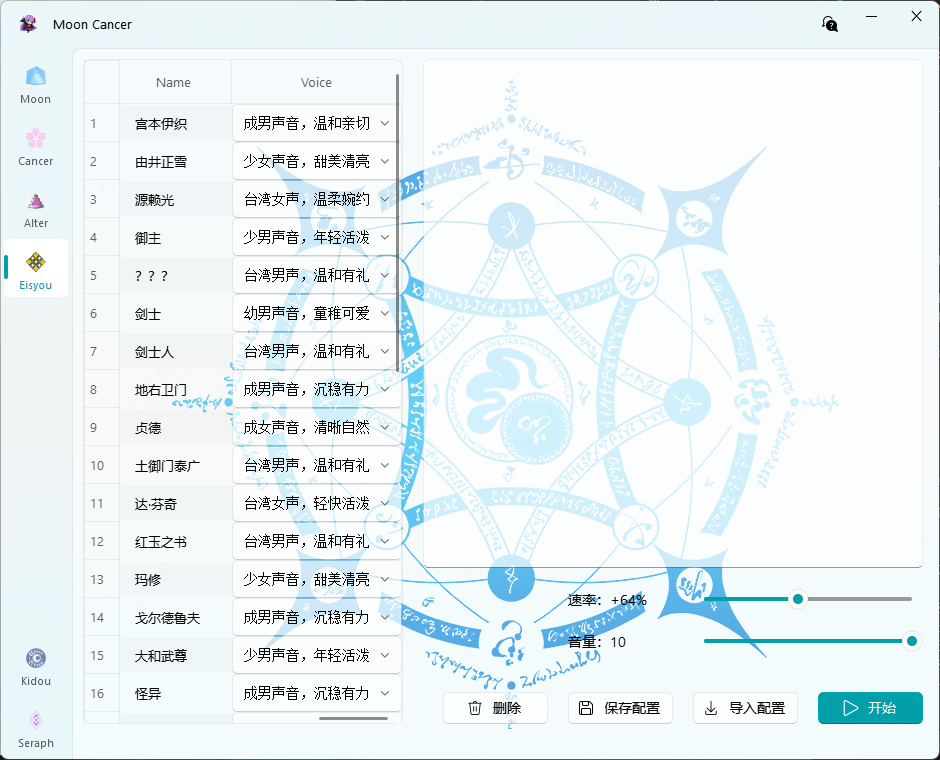
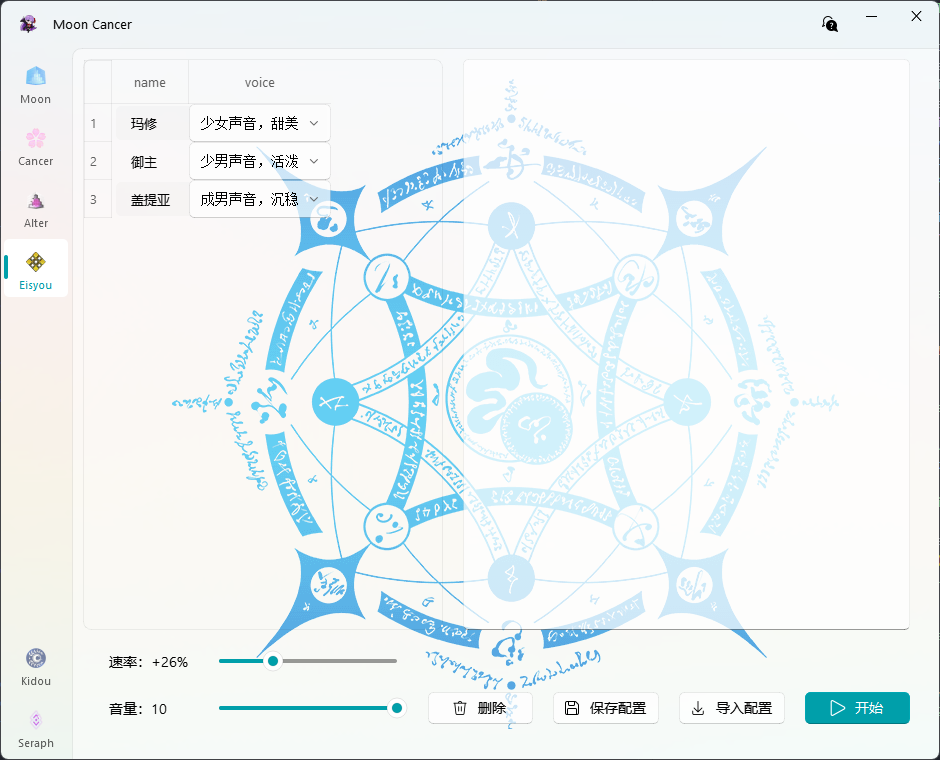
mc v2.1.4

diff --git a/src/content/posts/MoonCancer0.md b/src/content/posts/MoonCancer0.md
@@ -14,7 +14,7 @@ draft: false
 - `日常任务`：打开模拟器，打开游戏，抽每日友情池，清理白纸化副本结束，也可以在主页开始
 - `开始战斗`：无烦恼刷各种副本，复杂的机制关可能不能正常通关，建议手动修改根据机制来完成战斗
 - `过主线`：自动过主线，可以选择朗读剧情，或者跳过剧情，部分情况可以要手动调整重新启动任务
-- `清理free本`：自动清理free本(We Are Free!
+- `清理free本`：自动清理free本(We Are Free!)
 - `Cancer`：局内数值修改器，只能在战斗中使用，用来手动修改数值
 - `Alter`：提供更灵活的方式修改局内数值，主要用来打圣杯战线
 - `Eisyou`：随机分配角色朗读剧情，可以挂着当相声听
@@ -62,11 +62,10 @@ draft: false
 - **清理剩余体力**开启后，所有战斗都会在战斗次数耗尽后，战斗到体力不足
 - **苹果**按需选择即可
 - **助战礼装**按需设置即可，活动礼装默认选择第一个，把助战筛选设置好就行了
-- **跳过剧情**，开启会在过剧情任务时自动跳过剧情，否则会自动朗读剧情，朗读相关选项可以到eisyou界面设置
+- **活动点限制**，设置活动点限制，超过就停止，不多刷浪费，不限制时设为0，没有活动点的情况不触发
 - **抽每日友情池**，开启会在日常任务打白纸化之前先抽取每日免费友情池
 - **白纸化任务**，选择每日刷的本，按需选取
 - **连接等待时间**，如果自动启动模拟器时，模拟器启动时间过长导致没连上，可以增加等待时间
-- **活动点限制**，设置活动点限制，超过就停止，不多刷浪费，不限制时设为0，没有活动点的情况不触发
 ![settings2](../../assets/images/mooncaner/settings2.png)
 - 剩下的设置没啥好讲的了，自己看着选
 

diff --git a/src/content/posts/MoonCancer1.md b/src/content/posts/MoonCancer1.md
@@ -18,7 +18,7 @@ draft: false
 自动刷各种本，主要是能连续战斗的，或是强化本或者free本那样回到主界面右上角也有本可以点的情况，在Seraph(设置)里设置好战斗次数，礼装类型，是否要清理剩余体力，就可以点击开始了。可以在进入战斗前的选择助战，队伍设置和进入战斗后开始，也可以在主界面选本界面开始，但要保证要刷的本在第一个位置。<br>
 
 `过主线`<br>
-自动过主线和类主线，自动完成期间的战斗，**不要改变地图缩放，保持进入地图后的默认缩放，有缩放过的重新进图**，保障屏幕里表示主线任务的`下一个`标识存在即可点击开始，部分情况会卡住，需要手动修正，默认自动跳过主线，关闭跳过剧情时会自动朗读剧情，相关配置可以到Eisyou界面修改，具体说明请看[Eisyou界面说明](../mooncancer4)<br>
+自动过主线和类主线，自动完成期间的战斗，**不要改变地图缩放，保持进入地图后的默认缩放，有缩放过的重新进图**，保障屏幕里表示主线任务的`下一个`标识存在即可点击开始，部分情况会卡住，需要手动修正，选取消跳过剧情时会自动朗读剧情，相关配置可以到Eisyou界面修改，具体说明请看[Eisyou界面说明](../mooncancer4)<br>
 可能需要手动干涉部分：<br>
 - **第四特异点** 雾遮挡标志<br>
 - **第六特异点** 风沙遮挡标志<br>

diff --git a/src/content/posts/MoonCancer3.md b/src/content/posts/MoonCancer3.md
@@ -10,12 +10,12 @@ draft: false
 *这个界面提供了一个更灵活的方式修改局内数值，主要用来打圣杯战线，Cancer修改失败时，可以在这里修改，不过地址任然会记录到Cnacer界面的表格里，记得清理*<br>
 
 `添加`新行用来记录修改参数<br>
+`获取从者信息`从屏幕识别从者名称等级生命并自动填入表格，如果识别的数字没用问题可以直接选中修改<br>
+`获取敌人信息`从屏幕识别敌人名称等级生命并自动填入表格，如果识别的数字没用问题可以直接选中修改<br>
 `删除`选中行，可以删除多行<br>
-`修改`选中的行，同样可以修改多行<br>
+`修改`选中的行，可以选择多行修改<br>
 
 名称不能为空，等级不能为空，当前攻击力和生命值选一个填就行，填进入战斗后当前显示的值，改己方填攻击，改敌方填生命值（敌人看不到攻击力），后面的攻击力、生命值、宝具发动np都是要修改的值，空就代表不修改<br>
 例如：`托勒密， 80， 11677， ， 5000000， 10000000， 0`<br>
 意思是修改托勒密，根据等级和攻击力修改，攻击力修改为5000000，生命值修改为10000000，0np发动宝具
 
-
-*这个功能由于基本用不到确少维护，所以好像存在问题，后面我在修复，而且准备添加直接从画面获取数据，就不用手动输入了*

diff --git a/src/content/posts/MoonCancer.md b/src/content/posts/MoonCancer.md
@@ -52,3 +52,9 @@ draft: false
 3.优化过剧情和自动free本<br>
 4.在过主线开始前提示是否跳过剧情<br>
 5.优化多处逻辑，增加稳定性
+
+## 2025年8月25日
+1.优化修改器类增强稳定性，修复修改时某些大序号修改失败的问题<br>
+2.优化eisyou布局，修复删除错误问题<br>
+3.优化过剧情，修复不可跳过对话框卡住问题，移除跳过剧情设置，改为在开始前选择<br>
+4.修复增强alter，增加从屏幕识别信息<br>
